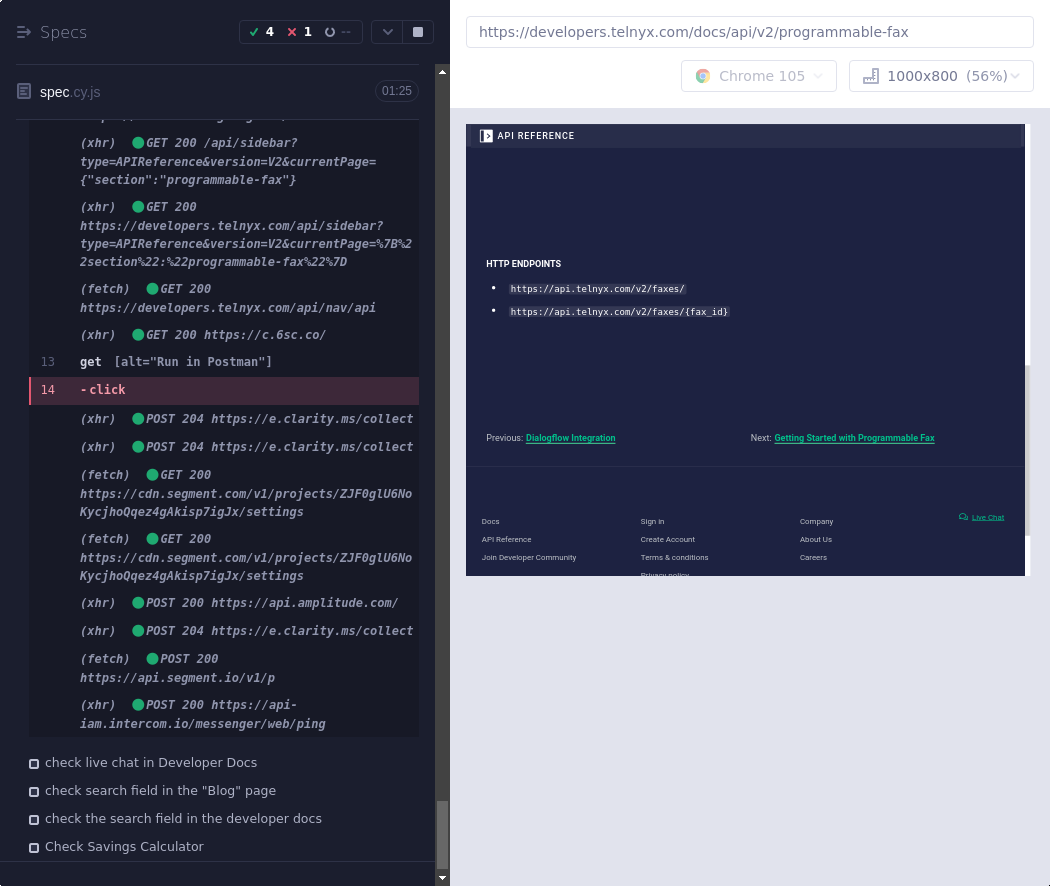
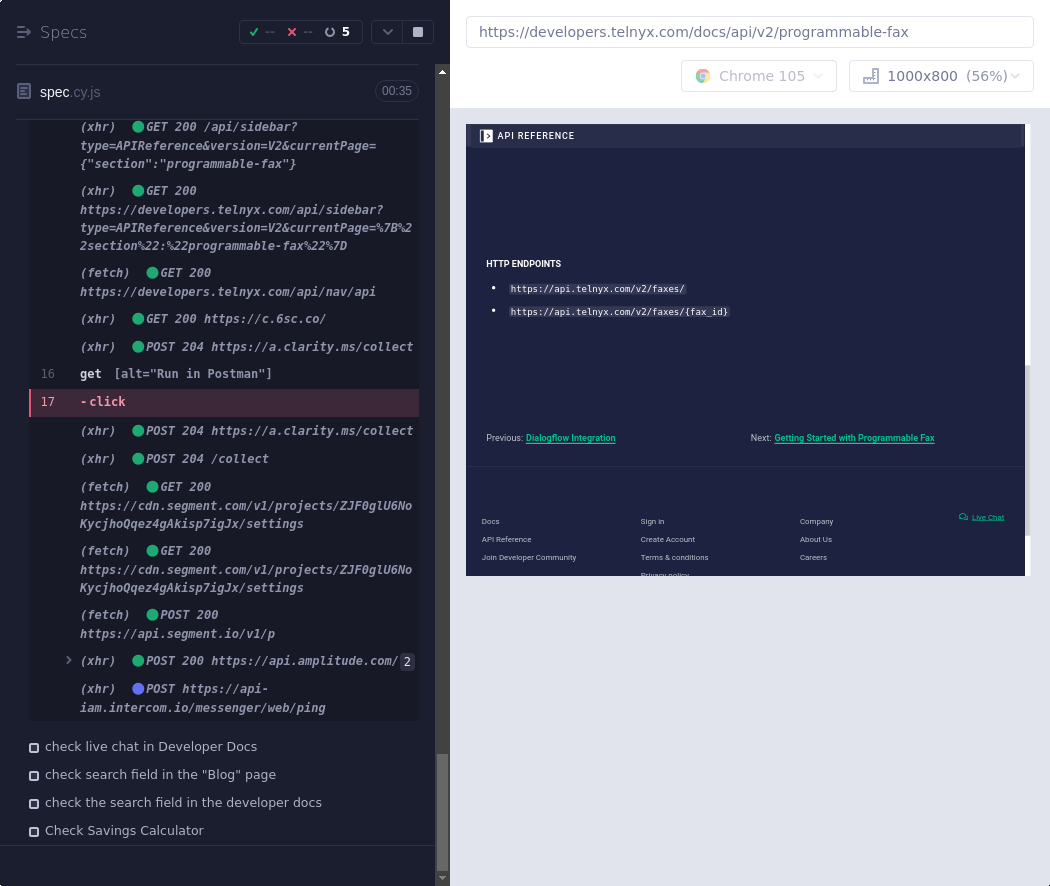
Deploying to gh-pages from @ DenysT07/cypress_autotest@1f916bc33db8359af388c67da36ee941c4093ecd 🚀

Changed region(s): [[0.0, 0.1219, 0.3962, 0.9752], [0.3962, 0.8533, 0.4267, 0.9142]]

diff --git a/index.html b/index.html
@@ -1,2 +1,2 @@
 <!doctype html>
-<html lang="en"><head><meta charSet="utf-8"/><meta http-equiv="X-UA-Compatible" content="IE=edge"/><meta name="viewport" content="width=device-width, initial-scale=1"/><title>Mochawesome Report</title><link rel="stylesheet" href="assets/app.css"/></head><body data-raw="{&quot;stats&quot;:{&quot;suites&quot;:1,&quot;tests&quot;:10,&quot;passes&quot;:8,&quot;pending&quot;:0,&quot;failures&quot;:2,&quot;start&quot;:&quot;2022-09-25T16:30:22.471Z&quot;,&quot;end&quot;:&quot;2022-09-25T16:32:28.709Z&quot;,&quot;duration&quot;:106666,&quot;testsRegistered&quot;:10,&quot;passPercent&quot;:80,&quot;pendingPercent&quot;:0,&quot;other&quot;:0,&quot;hasOther&quot;:false,&quot;skipped&quot;:0,&quot;hasSkipped&quot;:false},&quot;results&quot;:[{&quot;uuid&quot;:&quot;62b38007-95c5-4472-8a57-96c572c19cdd&quot;,&quot;title&quot;:&quot;&quot;,&quot;fullFile&quot;:&quot;cypress/e2e/spec/spec.cy.js&quot;,&quot;file&quot;:&quot;cypress/e2e/spec/spec.cy.js&quot;,&quot;beforeHooks&quot;:[],&quot;afterHooks&quot;:[],&quot;tests&quot;:[],&quot;suites&quot;:[{&quot;uuid&quot;:&quot;39d29764-6764-4790-928c-b9fd155d2620&quot;,&quot;title&quot;:&quot;registration forms tests&quot;,&quot;fullFile&quot;:&quot;cypress/e2e/spec/spec.cy.js&quot;,&quot;file&quot;:&quot;cypress/e2e/spec/spec.cy.js&quot;,&quot;beforeHooks&quot;:[],&quot;afterHooks&quot;:[],&quot;tests&quot;:[{&quot;title&quot;:&quot;Check registration page&quot;,&quot;fullTitle&quot;:&quot;registration forms tests Check registration page&quot;,&quot;timedOut&quot;:null,&quot;duration&quot;:29808,&quot;state&quot;:&quot;failed&quot;,&quot;speed&quot;:null,&quot;pass&quot;:false,&quot;fail&quot;:true,&quot;pending&quot;:false,&quot;context&quot;:&quot;[{\&quot;title\&quot;:\&quot;Failed screenshot\&quot;,\&quot;value\&quot;:\&quot;screenshots/spec.cy.js/registration forms tests -- Check registration page (failed).png\&quot;}]&quot;,&quot;code&quot;:&quot;_mainPage.default.singUpClick();\n_registrationPage.default.fillNameField(randomstring);\n_registrationPage.default.fillEmailField(randomstring + &#x27;@gmail.com&#x27;);\n_registrationPage.default.fillpasswordfield(randomstringForPassword);\n_registrationPage.default.clickBothCheckBoxes();\n_registrationPage.default.clickCreataAccounyButt();\ncy.wait(10000);\n_registrationPage.default.clickCreataAccounyButt(); //to pass the recapcha need to press the button two times, work only in chrome\n\ncy.wait(10000);\n_registrationPage.default.sendEmailMessage.should(\&quot;have.text\&quot;, \&quot;reCAPTCHA validation required\&quot;);&quot;,&quot;err&quot;:{&quot;message&quot;:&quot;AssertionError: Timed out retrying after 4000ms: Expected to find element: `.sc-570b157-1`, but never found it.&quot;,&quot;estack&quot;:&quot;AssertionError: Timed out retrying after 4000ms: Expected to find element: `.sc-570b157-1`, but never found it.\n    at Context.eval (webpack:///./cypress/e2e/spec/spec.cy.js:34:38)&quot;,&quot;diff&quot;:null},&quot;uuid&quot;:&quot;ef8a1c66-fe30-4ca0-8bf6-51a06b396a37&quot;,&quot;parentUUID&quot;:&quot;39d29764-6764-4790-928c-b9fd155d2620&quot;,&quot;isHook&quot;:false,&quot;skipped&quot;:false},{&quot;title&quot;:&quot;Check the \&quot;Talk to an expert\&quot; page&quot;,&quot;fullTitle&quot;:&quot;registration forms tests Check the \&quot;Talk to an expert\&quot; page&quot;,&quot;timedOut&quot;:null,&quot;duration&quot;:5796,&quot;state&quot;:&quot;passed&quot;,&quot;speed&quot;:&quot;medium&quot;,&quot;pass&quot;:true,&quot;fail&quot;:false,&quot;pending&quot;:false,&quot;context&quot;:null,&quot;code&quot;:&quot;_mainPage.default.rightMenueClick();\n_mainPage.default.talkToAnExpertButt();\n_talkToAnExpertPage.default.reasonDroplistSelect(&#x27;Support&#x27;);\n_talkToAnExpertPage.default.firstNameFill(randomstring);\n_talkToAnExpertPage.default.lastNameFill(randomstring);\n_talkToAnExpertPage.default.buisnesEmailFill(randomstring + &#x27;@gmail.com&#x27;);\n_talkToAnExpertPage.default.phoneNumberFill(phoneNumber);\n_talkToAnExpertPage.default.companyWebSiteFill(&#x27;http://www.&#x27; + randomstring + &#x27;.com/&#x27;);\n_talkToAnExpertPage.default.additionalInformationFill(&#x27;It is just a test&#x27;);\n_talkToAnExpertPage.default.countryCodeSelect(&#x27;+380&#x27;);\n_talkToAnExpertPage.default.checkBoxClick();\n_talkToAnExpertPage.default.submitClick();\n_talkToAnExpertPage.default.messageAfterRegist.should(\&quot;have.text\&quot;, \&quot;Thanks for Reaching Out!\&quot;);&quot;,&quot;err&quot;:{},&quot;uuid&quot;:&quot;f870595c-f024-411d-b22d-cfd932deed97&quot;,&quot;parentUUID&quot;:&quot;39d29764-6764-4790-928c-b9fd155d2620&quot;,&quot;isHook&quot;:false,&quot;skipped&quot;:false},{&quot;title&quot;:&quot;check registration for beta testing on the integration page&quot;,&quot;fullTitle&quot;:&quot;registration forms tests check registration for beta testing on the integration page&quot;,&quot;timedOut&quot;:null,&quot;duration&quot;:8782,&quot;state&quot;:&quot;passed&quot;,&quot;speed&quot;:&quot;medium&quot;,&quot;pass&quot;:true,&quot;fail&quot;:false,&quot;pending&quot;:false,&quot;context&quot;:null,&quot;code&quot;:&quot;_mainPage.default.rightMenueClick();\n_mainPage.default.companyButtclick();\n_mainPage.default.integrationButtClick({\n  timeout: 2000\n});\ncy.wait(2000);\ncy.scrollTo(&#x27;bottom&#x27;);\n_integrationPage.default.firstNameFill(randomstring);\n_integrationPage.default.lastNameFill(randomstring);\n_integrationPage.default.buisnesEmailFill(randomstring + &#x27;@gmail.com&#x27;);\n_integrationPage.default.indastryFill(randomstring);\n_integrationPage.default.companyWebSiteFill(&#x27;http://www.&#x27; + randomstring + &#x27;.com/&#x27;);\n_integrationPage.default.useCaseDropListSelect(&#x27;Other&#x27;);\n_integrationPage.default.submitClick();\n_integrationPage.default.messageAfterRegist.should(\&quot;have.text\&quot;, \&quot;Thanks for your interest!\&quot;);&quot;,&quot;err&quot;:{},&quot;uuid&quot;:&quot;751dd17c-9c6f-402a-b12a-78ae5f4d3a8a&quot;,&quot;parentUUID&quot;:&quot;39d29764-6764-4790-928c-b9fd155d2620&quot;,&quot;isHook&quot;:false,&quot;skipped&quot;:false},{&quot;title&quot;:&quot;check registrations for becoming a Telnix Partner on the Partners page &quot;,&quot;fullTitle&quot;:&quot;registration forms tests check registrations for becoming a Telnix Partner on the Partners page &quot;,&quot;timedOut&quot;:null,&quot;duration&quot;:8440,&quot;state&quot;:&quot;passed&quot;,&quot;speed&quot;:&quot;medium&quot;,&quot;pass&quot;:true,&quot;fail&quot;:false,&quot;pending&quot;:false,&quot;context&quot;:null,&quot;code&quot;:&quot;_mainPage.default.rightMenueClick();\n_mainPage.default.companyButtclick();\n_mainPage.default.partnerButtClick();\ncy.wait(2000);\ncy.scrollTo(&#x27;bottom&#x27;);\n_partnerPage.default.firstNameFill(randomstring);\n_partnerPage.default.lastNameFill(randomstring);\n_partnerPage.default.buisnesEmailFill(randomstring + &#x27;@gmail.com&#x27;);\n_partnerPage.default.phoneFill(&#x27;380&#x27; + phoneNumber);\n_partnerPage.default.companyFill(randomstring);\n_partnerPage.default.TellAsFormFill(&#x27;It is just a test&#x27;);\n_partnerPage.default.partnerTypeDropListSelect(&#x27;MSP&#x27;);\n_partnerPage.default.checkBoxLocClick();\n_partnerPage.default.applyNowButtClick();\ncy.url({\n  timeout: 20000\n}).should(&#x27;contains&#x27;, &#x27;https://telnyx.com/company/partnerships?&#x27;); // there is a bug, i decided to check actual URL to pass this test&quot;,&quot;err&quot;:{},&quot;uuid&quot;:&quot;56fd01de-5c39-4ce6-81f5-ab7bc424e3a4&quot;,&quot;parentUUID&quot;:&quot;39d29764-6764-4790-928c-b9fd155d2620&quot;,&quot;isHook&quot;:false,&quot;skipped&quot;:false},{&quot;title&quot;:&quot;check registrations for the Waitlist on the storage page &quot;,&quot;fullTitle&quot;:&quot;registration forms tests check registrations for the Waitlist on the storage page &quot;,&quot;timedOut&quot;:null,&quot;duration&quot;:7738,&quot;state&quot;:&quot;passed&quot;,&quot;speed&quot;:&quot;medium&quot;,&quot;pass&quot;:true,&quot;fail&quot;:false,&quot;pending&quot;:false,&quot;context&quot;:null,&quot;code&quot;:&quot;_mainPage.default.rightMenueClick();\n_mainPage.default.productsButtcClick();\n_mainPage.default.storageButtClock();\ncy.wait(3000);\ncy.scrollTo(&#x27;bottom&#x27;);\n_storagePage.default.firstNameFill(randomstring);\n_storagePage.default.lastNameFill(randomstring);\n_storagePage.default.buisnesEmailFill(randomstring + &#x27;@gmail.com&#x27;);\n_storagePage.default.TellAsFormFill(&#x27;It is just a test&#x27;);\n_storagePage.default.checkBoxClick();\n_storagePage.default.applyNowButtClick();\n_storagePage.default.messageAfterRegist.should(\&quot;have.text\&quot;, \&quot;You&#x27;re on the waitlist!\&quot;);&quot;,&quot;err&quot;:{},&quot;uuid&quot;:&quot;6d17e7cb-eb72-4e35-b25d-277f5ac5f43b&quot;,&quot;parentUUID&quot;:&quot;39d29764-6764-4790-928c-b9fd155d2620&quot;,&quot;isHook&quot;:false,&quot;skipped&quot;:false}],&quot;suites&quot;:[],&quot;passes&quot;:[&quot;f870595c-f024-411d-b22d-cfd932deed97&quot;,&quot;751dd17c-9c6f-402a-b12a-78ae5f4d3a8a&quot;,&quot;56fd01de-5c39-4ce6-81f5-ab7bc424e3a4&quot;,&quot;6d17e7cb-eb72-4e35-b25d-277f5ac5f43b&quot;],&quot;failures&quot;:[&quot;ef8a1c66-fe30-4ca0-8bf6-51a06b396a37&quot;],&quot;pending&quot;:[],&quot;skipped&quot;:[],&quot;duration&quot;:60564,&quot;root&quot;:false,&quot;rootEmpty&quot;:false,&quot;_timeout&quot;:2000},{&quot;uuid&quot;:&quot;573e6160-801b-44a3-8fad-9510ef9ab326&quot;,&quot;title&quot;:&quot;Functional tests&quot;,&quot;fullFile&quot;:&quot;cypress/e2e/spec/spec.cy.js&quot;,&quot;file&quot;:&quot;cypress/e2e/spec/spec.cy.js&quot;,&quot;beforeHooks&quot;:[],&quot;afterHooks&quot;:[],&quot;tests&quot;:[{&quot;title&quot;:&quot;check link to the Postman colection&quot;,&quot;fullTitle&quot;:&quot;Functional tests check link to the Postman colection&quot;,&quot;timedOut&quot;:null,&quot;duration&quot;:13722,&quot;state&quot;:&quot;failed&quot;,&quot;speed&quot;:null,&quot;pass&quot;:false,&quot;fail&quot;:true,&quot;pending&quot;:false,&quot;context&quot;:&quot;[{\&quot;title\&quot;:\&quot;Failed screenshot\&quot;,\&quot;value\&quot;:\&quot;screenshots/spec.cy.js/Functional tests -- check link to the Postman colection (failed).png\&quot;}]&quot;,&quot;code&quot;:&quot;_mainPage.default.rightMenueClick();\n_mainPage.default.productsButtcClick();\n_mainPage.default.seeAllProductsButtClick();\n_faxApiPage.default.faxApiButtClick();\n_faxApiPage.default.exploreTheDocButtClick();\ncy.contains(&#x27;See the Specs&#x27;).click({\n  force: true\n}); // cy.wait(3000)\n// cy.scrollTo(&#x27;top&#x27;)\n// faxApiPage.seeTheSpecButtclick()\n// cy.wait(3000)\n_faxApiPage.default.runInPostmanButtClick();\ncy.url({\n  timeout: 20000\n}).should(&#x27;contains&#x27;, &#x27;postman.com&#x27;);&quot;,&quot;err&quot;:{&quot;message&quot;:&quot;CypressError: Timed out retrying after 4050ms: `cy.click()` failed because this element:\n\n`&lt;img src=\&quot;https://run.pstmn.io/button.svg\&quot; alt=\&quot;Run in Postman\&quot; style=\&quot;max-width: 100%;\&quot;&gt;`\n\nis being covered by another element:\n\n`&lt;label for=\&quot;telnyx-mobile-sidebar\&quot; class=\&quot;sc-249d42c8-0 erLUQr\&quot;&gt;...&lt;/label&gt;`\n\nFix this problem, or use {force: true} to disable error checking.\n\nhttps://on.cypress.io/element-cannot-be-interacted-with&quot;,&quot;estack&quot;:&quot;CypressError: Timed out retrying after 4050ms: `cy.click()` failed because this element:\n\n`&lt;img src=\&quot;https://run.pstmn.io/button.svg\&quot; alt=\&quot;Run in Postman\&quot; style=\&quot;max-width: 100%;\&quot;&gt;`\n\nis being covered by another element:\n\n`&lt;label for=\&quot;telnyx-mobile-sidebar\&quot; class=\&quot;sc-249d42c8-0 erLUQr\&quot;&gt;...&lt;/label&gt;`\n\nFix this problem, or use {force: true} to disable error checking.\n\nhttps://on.cypress.io/element-cannot-be-interacted-with\n    at $Cy.ensureDescendents (https://telnyx.com/__cypress/runner/cypress_runner.js:147512:78)\n    at ensureDescendents (https://telnyx.com/__cypress/runner/cypress_runner.js:132962:8)\n    at ensureDescendentsAndScroll (https://telnyx.com/__cypress/runner/cypress_runner.js:132969:14)\n    at ensureElIsNotCovered (https://telnyx.com/__cypress/runner/cypress_runner.js:133101:5)\n    at runAllChecks (https://telnyx.com/__cypress/runner/cypress_runner.js:133291:52)\n    at retryActionability (https://telnyx.com/__cypress/runner/cypress_runner.js:133315:16)\n    at tryCatcher (https://telnyx.com/__cypress/runner/cypress_runner.js:11318:23)\n    at Promise.attempt.Promise.try (https://telnyx.com/__cypress/runner/cypress_runner.js:8592:29)\n    at whenStable (https://telnyx.com/__cypress/runner/cypress_runner.js:152495:65)\n    at &lt;unknown&gt; (https://telnyx.com/__cypress/runner/cypress_runner.js:151949:14)\n    at tryCatcher (https://telnyx.com/__cypress/runner/cypress_runner.js:11318:23)\n    at Promise._settlePromiseFromHandler (https://telnyx.com/__cypress/runner/cypress_runner.js:9253:31)\n    at Promise._settlePromise (https://telnyx.com/__cypress/runner/cypress_runner.js:9310:18)\n    at Promise._settlePromise0 (https://telnyx.com/__cypress/runner/cypress_runner.js:9355:10)\n    at Promise._settlePromises (https://telnyx.com/__cypress/runner/cypress_runner.js:9435:18)\n    at Promise._fulfill (https://telnyx.com/__cypress/runner/cypress_runner.js:9379:18)\n    at &lt;unknown&gt; (https://telnyx.com/__cypress/runner/cypress_runner.js:10993:46)\nFrom Your Spec Code:\n    at faxApiPage.runInPostmanButtClick (webpack:///./cypress/e2e/pages/faxApiPage.js:17:36)\n    at Context.eval (webpack:///./cypress/e2e/spec/spec.cy.js:126:15)&quot;,&quot;diff&quot;:null},&quot;uuid&quot;:&quot;9cbf79ea-09f0-400a-8681-b7c7e07cf362&quot;,&quot;parentUUID&quot;:&quot;573e6160-801b-44a3-8fad-9510ef9ab326&quot;,&quot;isHook&quot;:false,&quot;skipped&quot;:false},{&quot;title&quot;:&quot;check live chat in Developer Docs&quot;,&quot;fullTitle&quot;:&quot;Functional tests check live chat in Developer Docs&quot;,&quot;timedOut&quot;:null,&quot;duration&quot;:15554,&quot;state&quot;:&quot;passed&quot;,&quot;speed&quot;:&quot;slow&quot;,&quot;pass&quot;:true,&quot;fail&quot;:false,&quot;pending&quot;:false,&quot;context&quot;:null,&quot;code&quot;:&quot;_mainPage.default.rightMenueClick();\n_mainPage.default.resourcesButtclick();\n_mainPage.default.devDocsButtclick();\ncy.scrollTo(&#x27;bottom&#x27;);\ncy.wait(6000);\n_devDocsPage.default.liveChatButtclick();\ncy.wait(5000);\n_devDocsPage.default.serchFieldLiveChatButtClick();\n_devDocsPage.default.serchFieldLiveChatFill(&#x27;sms&#x27;);\ncy.wait(1000);\n_devDocsPage.default.findEntryAndClick(&#x27;Sending Alphanumeric&#x27;);\n_devDocsPage.default.entryTitle.should(\&quot;have.text\&quot;, \&quot;Sending Alphanumeric SMS\&quot;);&quot;,&quot;err&quot;:{},&quot;uuid&quot;:&quot;cc8864e2-3b6d-438c-b88e-d02cb7a888cd&quot;,&quot;parentUUID&quot;:&quot;573e6160-801b-44a3-8fad-9510ef9ab326&quot;,&quot;isHook&quot;:false,&quot;skipped&quot;:false},{&quot;title&quot;:&quot;check search field in the \&quot;Blog\&quot; page&quot;,&quot;fullTitle&quot;:&quot;Functional tests check search field in the \&quot;Blog\&quot; page&quot;,&quot;timedOut&quot;:null,&quot;duration&quot;:8553,&quot;state&quot;:&quot;passed&quot;,&quot;speed&quot;:&quot;medium&quot;,&quot;pass&quot;:true,&quot;fail&quot;:false,&quot;pending&quot;:false,&quot;context&quot;:null,&quot;code&quot;:&quot;_mainPage.default.rightMenueClick();\n_mainPage.default.resourcesButtclick();\n_mainPage.default.blogeButtClick();\n_blogPage.default.serchFieldFill(&#x27;Programmable fax{enter}&#x27;);\ncy.wait(6000);\ncy.contains(&#x27;Programmable fax - switch from Twilio to Telnyx&#x27;).click();\n_blogPage.default.entruTitle.should(&#x27;have.text&#x27;, &#x27;Programmable fax - switch from Twilio to Telnyx &#x27;);&quot;,&quot;err&quot;:{},&quot;uuid&quot;:&quot;dcfb38c9-17cc-4aa7-8ea4-20610cce522a&quot;,&quot;parentUUID&quot;:&quot;573e6160-801b-44a3-8fad-9510ef9ab326&quot;,&quot;isHook&quot;:false,&quot;skipped&quot;:false},{&quot;title&quot;:&quot;check the search field in the developer docs&quot;,&quot;fullTitle&quot;:&quot;Functional tests check the search field in the developer docs&quot;,&quot;timedOut&quot;:null,&quot;duration&quot;:4121,&quot;state&quot;:&quot;passed&quot;,&quot;speed&quot;:&quot;fast&quot;,&quot;pass&quot;:true,&quot;fail&quot;:false,&quot;pending&quot;:false,&quot;context&quot;:null,&quot;code&quot;:&quot;_mainPage.default.rightMenueClick();\n_mainPage.default.resourcesButtclick();\n_mainPage.default.devDocsButtclick();\n_devDocsPage.default.lefMenuClick();\n_devDocsPage.default.serchFieldLeftMenuFill(&#x27;api&#x27;);\ncy.contains(&#x27; Services in Europe&#x27;).click({\n  force: true\n});\n_devDocsPage.default.mainEntryTitle.should(&#x27;have.text&#x27;, &#x27;Voice API Services in Europe&#x27;);&quot;,&quot;err&quot;:{},&quot;uuid&quot;:&quot;b1ab7c4c-02f8-4316-a8d5-080f7ca67ca2&quot;,&quot;parentUUID&quot;:&quot;573e6160-801b-44a3-8fad-9510ef9ab326&quot;,&quot;isHook&quot;:false,&quot;skipped&quot;:false},{&quot;title&quot;:&quot;Check Savings Calculator&quot;,&quot;fullTitle&quot;:&quot;Functional tests Check Savings Calculator&quot;,&quot;timedOut&quot;:null,&quot;duration&quot;:4152,&quot;state&quot;:&quot;passed&quot;,&quot;speed&quot;:&quot;fast&quot;,&quot;pass&quot;:true,&quot;fail&quot;:false,&quot;pending&quot;:false,&quot;context&quot;:null,&quot;code&quot;:&quot;_mainPage.default.rightMenueClick();\n_mainPage.default.resourcesButtclick();\n_mainPage.default.CalculatorButtClick();\ncy.wait(2000);\n_calculatorPage.default.messagingApiButtClick();\n_calculatorPage.default.voiceApiButtClick();\n_calculatorPage.default.continueButtClick();\n_calculatorPage.default.localNumberFieldFill(&#x27;{selectall}321&#x27;);\n_calculatorPage.default.tollFreeNumberFieldClick(&#x27;{selectall}123&#x27;);\n_calculatorPage.default.continueButtClick();\n_calculatorPage.default.totalSavingResult.should(&#x27;have.text&#x27;, &#x27;$12,940/ year&#x27;);&quot;,&quot;err&quot;:{},&quot;uuid&quot;:&quot;5a4b9e5b-aa08-47f4-868b-2d9193443262&quot;,&quot;parentUUID&quot;:&quot;573e6160-801b-44a3-8fad-9510ef9ab326&quot;,&quot;isHook&quot;:false,&quot;skipped&quot;:false}],&quot;suites&quot;:[],&quot;passes&quot;:[&quot;cc8864e2-3b6d-438c-b88e-d02cb7a888cd&quot;,&quot;dcfb38c9-17cc-4aa7-8ea4-20610cce522a&quot;,&quot;b1ab7c4c-02f8-4316-a8d5-080f7ca67ca2&quot;,&quot;5a4b9e5b-aa08-47f4-868b-2d9193443262&quot;],&quot;failures&quot;:[&quot;9cbf79ea-09f0-400a-8681-b7c7e07cf362&quot;],&quot;pending&quot;:[],&quot;skipped&quot;:[],&quot;duration&quot;:46102,&quot;root&quot;:false,&quot;rootEmpty&quot;:false,&quot;_timeout&quot;:2000}],&quot;passes&quot;:[],&quot;failures&quot;:[],&quot;pending&quot;:[],&quot;skipped&quot;:[],&quot;duration&quot;:0,&quot;root&quot;:true,&quot;rootEmpty&quot;:true,&quot;_timeout&quot;:2000}],&quot;meta&quot;:{&quot;mocha&quot;:{&quot;version&quot;:&quot;7.0.1&quot;},&quot;mochawesome&quot;:{&quot;options&quot;:{&quot;quiet&quot;:false,&quot;reportFilename&quot;:&quot;mochawesome&quot;,&quot;saveHtml&quot;:false,&quot;saveJson&quot;:true,&quot;consoleReporter&quot;:&quot;spec&quot;,&quot;useInlineDiffs&quot;:false,&quot;code&quot;:true},&quot;version&quot;:&quot;7.1.3&quot;},&quot;marge&quot;:{&quot;options&quot;:{&quot;overwrite&quot;:false,&quot;html&quot;:false,&quot;json&quot;:true,&quot;reportDir&quot;:&quot;cypress/reports/html/.jsons&quot;},&quot;version&quot;:&quot;6.2.0&quot;}}}" data-config="{&quot;reportFilename&quot;:&quot;index.html&quot;,&quot;reportDir&quot;:&quot;/home/runner/work/cypress_autotest/cypress_autotest/cypress/reports/html&quot;,&quot;reportTitle&quot;:&quot;cypress_autotest&quot;,&quot;reportPageTitle&quot;:&quot;Mochawesome Report&quot;,&quot;inline&quot;:false,&quot;inlineAssets&quot;:false,&quot;cdn&quot;:false,&quot;charts&quot;:false,&quot;enableCharts&quot;:false,&quot;code&quot;:true,&quot;enableCode&quot;:true,&quot;autoOpen&quot;:false,&quot;overwrite&quot;:true,&quot;timestamp&quot;:false,&quot;ts&quot;:false,&quot;showPassed&quot;:true,&quot;showFailed&quot;:true,&quot;showPending&quot;:true,&quot;showSkipped&quot;:false,&quot;showHooks&quot;:&quot;failed&quot;,&quot;saveJson&quot;:false,&quot;saveHtml&quot;:true,&quot;dev&quot;:false,&quot;assetsDir&quot;:&quot;/home/runner/work/cypress_autotest/cypress_autotest/cypress/reports/html/assets&quot;,&quot;htmlFile&quot;:&quot;/home/runner/work/cypress_autotest/cypress_autotest/cypress/reports/html/index.html&quot;}"><div id="report"></div><script src="assets/app.js"></script></body></html>
+<html lang="en"><head><meta charSet="utf-8"/><meta http-equiv="X-UA-Compatible" content="IE=edge"/><meta name="viewport" content="width=device-width, initial-scale=1"/><title>Mochawesome Report</title><link rel="stylesheet" href="assets/app.css"/></head><body data-raw="{&quot;stats&quot;:{&quot;suites&quot;:1,&quot;tests&quot;:10,&quot;passes&quot;:0,&quot;pending&quot;:9,&quot;failures&quot;:1,&quot;start&quot;:&quot;2022-09-25T16:33:34.723Z&quot;,&quot;end&quot;:&quot;2022-09-25T16:34:12.776Z&quot;,&quot;duration&quot;:28781,&quot;testsRegistered&quot;:10,&quot;passPercent&quot;:0,&quot;pendingPercent&quot;:90,&quot;other&quot;:0,&quot;hasOther&quot;:false,&quot;skipped&quot;:0,&quot;hasSkipped&quot;:false},&quot;results&quot;:[{&quot;uuid&quot;:&quot;15ffb571-8be7-4508-acdd-c0c3b3d0fd76&quot;,&quot;title&quot;:&quot;&quot;,&quot;fullFile&quot;:&quot;cypress/e2e/spec/spec.cy.js&quot;,&quot;file&quot;:&quot;cypress/e2e/spec/spec.cy.js&quot;,&quot;beforeHooks&quot;:[],&quot;afterHooks&quot;:[],&quot;tests&quot;:[],&quot;suites&quot;:[{&quot;uuid&quot;:&quot;9d90856e-5828-43ad-a5ec-88b448b982d8&quot;,&quot;title&quot;:&quot;registration forms tests&quot;,&quot;fullFile&quot;:&quot;cypress/e2e/spec/spec.cy.js&quot;,&quot;file&quot;:&quot;cypress/e2e/spec/spec.cy.js&quot;,&quot;beforeHooks&quot;:[],&quot;afterHooks&quot;:[],&quot;tests&quot;:[{&quot;title&quot;:&quot;Check registration page&quot;,&quot;fullTitle&quot;:&quot;registration forms tests Check registration page&quot;,&quot;timedOut&quot;:null,&quot;duration&quot;:0,&quot;state&quot;:&quot;pending&quot;,&quot;speed&quot;:null,&quot;pass&quot;:false,&quot;fail&quot;:false,&quot;pending&quot;:true,&quot;context&quot;:null,&quot;code&quot;:&quot;&quot;,&quot;err&quot;:{},&quot;uuid&quot;:&quot;32035353-113b-4eca-a906-daf57f4c8a6e&quot;,&quot;parentUUID&quot;:&quot;9d90856e-5828-43ad-a5ec-88b448b982d8&quot;,&quot;isHook&quot;:false,&quot;skipped&quot;:false},{&quot;title&quot;:&quot;Check the \&quot;Talk to an expert\&quot; page&quot;,&quot;fullTitle&quot;:&quot;registration forms tests Check the \&quot;Talk to an expert\&quot; page&quot;,&quot;timedOut&quot;:null,&quot;duration&quot;:0,&quot;state&quot;:&quot;pending&quot;,&quot;speed&quot;:null,&quot;pass&quot;:false,&quot;fail&quot;:false,&quot;pending&quot;:true,&quot;context&quot;:null,&quot;code&quot;:&quot;&quot;,&quot;err&quot;:{},&quot;uuid&quot;:&quot;0b565afe-3bb7-46cd-867a-148addeba2ab&quot;,&quot;parentUUID&quot;:&quot;9d90856e-5828-43ad-a5ec-88b448b982d8&quot;,&quot;isHook&quot;:false,&quot;skipped&quot;:false},{&quot;title&quot;:&quot;check registration for beta testing on the integration page&quot;,&quot;fullTitle&quot;:&quot;registration forms tests check registration for beta testing on the integration page&quot;,&quot;timedOut&quot;:null,&quot;duration&quot;:0,&quot;state&quot;:&quot;pending&quot;,&quot;speed&quot;:null,&quot;pass&quot;:false,&quot;fail&quot;:false,&quot;pending&quot;:true,&quot;context&quot;:null,&quot;code&quot;:&quot;&quot;,&quot;err&quot;:{},&quot;uuid&quot;:&quot;cbc03ace-d1e4-4f18-90d8-49af3922a0f1&quot;,&quot;parentUUID&quot;:&quot;9d90856e-5828-43ad-a5ec-88b448b982d8&quot;,&quot;isHook&quot;:false,&quot;skipped&quot;:false},{&quot;title&quot;:&quot;check registrations for becoming a Telnix Partner on the Partners page &quot;,&quot;fullTitle&quot;:&quot;registration forms tests check registrations for becoming a Telnix Partner on the Partners page &quot;,&quot;timedOut&quot;:null,&quot;duration&quot;:0,&quot;state&quot;:&quot;pending&quot;,&quot;speed&quot;:null,&quot;pass&quot;:false,&quot;fail&quot;:false,&quot;pending&quot;:true,&quot;context&quot;:null,&quot;code&quot;:&quot;&quot;,&quot;err&quot;:{},&quot;uuid&quot;:&quot;fc11146f-5eb3-4cf7-91e0-4361e872cd09&quot;,&quot;parentUUID&quot;:&quot;9d90856e-5828-43ad-a5ec-88b448b982d8&quot;,&quot;isHook&quot;:false,&quot;skipped&quot;:false},{&quot;title&quot;:&quot;check registrations for the Waitlist on the storage page &quot;,&quot;fullTitle&quot;:&quot;registration forms tests check registrations for the Waitlist on the storage page &quot;,&quot;timedOut&quot;:null,&quot;duration&quot;:0,&quot;state&quot;:&quot;pending&quot;,&quot;speed&quot;:null,&quot;pass&quot;:false,&quot;fail&quot;:false,&quot;pending&quot;:true,&quot;context&quot;:null,&quot;code&quot;:&quot;&quot;,&quot;err&quot;:{},&quot;uuid&quot;:&quot;59ed9ad7-979e-4814-ae84-52bc69e4f430&quot;,&quot;parentUUID&quot;:&quot;9d90856e-5828-43ad-a5ec-88b448b982d8&quot;,&quot;isHook&quot;:false,&quot;skipped&quot;:false}],&quot;suites&quot;:[],&quot;passes&quot;:[],&quot;failures&quot;:[],&quot;pending&quot;:[&quot;32035353-113b-4eca-a906-daf57f4c8a6e&quot;,&quot;0b565afe-3bb7-46cd-867a-148addeba2ab&quot;,&quot;cbc03ace-d1e4-4f18-90d8-49af3922a0f1&quot;,&quot;fc11146f-5eb3-4cf7-91e0-4361e872cd09&quot;,&quot;59ed9ad7-979e-4814-ae84-52bc69e4f430&quot;],&quot;skipped&quot;:[],&quot;duration&quot;:0,&quot;root&quot;:false,&quot;rootEmpty&quot;:false,&quot;_timeout&quot;:2000},{&quot;uuid&quot;:&quot;d70dac89-48ef-42b2-b2a5-483fa0e70a0f&quot;,&quot;title&quot;:&quot;Functional tests&quot;,&quot;fullFile&quot;:&quot;cypress/e2e/spec/spec.cy.js&quot;,&quot;file&quot;:&quot;cypress/e2e/spec/spec.cy.js&quot;,&quot;beforeHooks&quot;:[],&quot;afterHooks&quot;:[],&quot;tests&quot;:[{&quot;title&quot;:&quot;check link to the Postman colection&quot;,&quot;fullTitle&quot;:&quot;Functional tests check link to the Postman colection&quot;,&quot;timedOut&quot;:null,&quot;duration&quot;:28781,&quot;state&quot;:&quot;failed&quot;,&quot;speed&quot;:null,&quot;pass&quot;:false,&quot;fail&quot;:true,&quot;pending&quot;:false,&quot;context&quot;:&quot;[{\&quot;title\&quot;:\&quot;Failed screenshot\&quot;,\&quot;value\&quot;:\&quot;screenshots/spec.cy.js/Functional tests -- check link to the Postman colection (failed).png\&quot;}]&quot;,&quot;code&quot;:&quot;_mainPage.default.rightMenueClick();\n_mainPage.default.productsButtcClick();\n_mainPage.default.seeAllProductsButtClick();\n_faxApiPage.default.faxApiButtClick();\n_faxApiPage.default.exploreTheDocButtClick();\ncy.wait(3000);\ncy.scrollTo(&#x27;top&#x27;);\ncy.wait(3000);\ncy.contains(&#x27;See the Specs&#x27;).click({\n  force: true\n}); // cy.wait(3000)\n// cy.scrollTo(&#x27;top&#x27;)\n// faxApiPage.seeTheSpecButtclick()\n// cy.wait(3000)\n_faxApiPage.default.runInPostmanButtClick();\ncy.url({\n  timeout: 20000\n}).should(&#x27;contains&#x27;, &#x27;postman.com&#x27;);&quot;,&quot;err&quot;:{&quot;message&quot;:&quot;CypressError: Timed out retrying after 4050ms: `cy.click()` failed because this element:\n\n`&lt;img src=\&quot;https://run.pstmn.io/button.svg\&quot; alt=\&quot;Run in Postman\&quot; style=\&quot;max-width: 100%;\&quot;&gt;`\n\nis being covered by another element:\n\n`&lt;label for=\&quot;telnyx-mobile-sidebar\&quot; class=\&quot;sc-249d42c8-0 erLUQr\&quot;&gt;...&lt;/label&gt;`\n\nFix this problem, or use {force: true} to disable error checking.\n\nhttps://on.cypress.io/element-cannot-be-interacted-with&quot;,&quot;estack&quot;:&quot;CypressError: Timed out retrying after 4050ms: `cy.click()` failed because this element:\n\n`&lt;img src=\&quot;https://run.pstmn.io/button.svg\&quot; alt=\&quot;Run in Postman\&quot; style=\&quot;max-width: 100%;\&quot;&gt;`\n\nis being covered by another element:\n\n`&lt;label for=\&quot;telnyx-mobile-sidebar\&quot; class=\&quot;sc-249d42c8-0 erLUQr\&quot;&gt;...&lt;/label&gt;`\n\nFix this problem, or use {force: true} to disable error checking.\n\nhttps://on.cypress.io/element-cannot-be-interacted-with\n    at $Cy.ensureDescendents (https://telnyx.com/__cypress/runner/cypress_runner.js:147512:78)\n    at ensureDescendents (https://telnyx.com/__cypress/runner/cypress_runner.js:132962:8)\n    at ensureDescendentsAndScroll (https://telnyx.com/__cypress/runner/cypress_runner.js:132969:14)\n    at ensureElIsNotCovered (https://telnyx.com/__cypress/runner/cypress_runner.js:133101:5)\n    at runAllChecks (https://telnyx.com/__cypress/runner/cypress_runner.js:133291:52)\n    at retryActionability (https://telnyx.com/__cypress/runner/cypress_runner.js:133315:16)\n    at tryCatcher (https://telnyx.com/__cypress/runner/cypress_runner.js:11318:23)\n    at Promise.attempt.Promise.try (https://telnyx.com/__cypress/runner/cypress_runner.js:8592:29)\n    at whenStable (https://telnyx.com/__cypress/runner/cypress_runner.js:152495:65)\n    at &lt;unknown&gt; (https://telnyx.com/__cypress/runner/cypress_runner.js:151949:14)\n    at tryCatcher (https://telnyx.com/__cypress/runner/cypress_runner.js:11318:23)\n    at Promise._settlePromiseFromHandler (https://telnyx.com/__cypress/runner/cypress_runner.js:9253:31)\n    at Promise._settlePromise (https://telnyx.com/__cypress/runner/cypress_runner.js:9310:18)\n    at Promise._settlePromise0 (https://telnyx.com/__cypress/runner/cypress_runner.js:9355:10)\n    at Promise._settlePromises (https://telnyx.com/__cypress/runner/cypress_runner.js:9435:18)\n    at Promise._fulfill (https://telnyx.com/__cypress/runner/cypress_runner.js:9379:18)\n    at &lt;unknown&gt; (https://telnyx.com/__cypress/runner/cypress_runner.js:10993:46)\nFrom Your Spec Code:\n    at faxApiPage.runInPostmanButtClick (webpack:///./cypress/e2e/pages/faxApiPage.js:17:36)\n    at Context.eval (webpack:///./cypress/e2e/spec/spec.cy.js:129:15)&quot;,&quot;diff&quot;:null},&quot;uuid&quot;:&quot;12259f4f-ec1a-4098-a327-e31eb86dd0fb&quot;,&quot;parentUUID&quot;:&quot;d70dac89-48ef-42b2-b2a5-483fa0e70a0f&quot;,&quot;isHook&quot;:false,&quot;skipped&quot;:false},{&quot;title&quot;:&quot;check live chat in Developer Docs&quot;,&quot;fullTitle&quot;:&quot;Functional tests check live chat in Developer Docs&quot;,&quot;timedOut&quot;:null,&quot;duration&quot;:0,&quot;state&quot;:&quot;pending&quot;,&quot;speed&quot;:null,&quot;pass&quot;:false,&quot;fail&quot;:false,&quot;pending&quot;:true,&quot;context&quot;:null,&quot;code&quot;:&quot;&quot;,&quot;err&quot;:{},&quot;uuid&quot;:&quot;7e42ace8-3ac7-4c55-9dbb-26dde8212062&quot;,&quot;parentUUID&quot;:&quot;d70dac89-48ef-42b2-b2a5-483fa0e70a0f&quot;,&quot;isHook&quot;:false,&quot;skipped&quot;:false},{&quot;title&quot;:&quot;check search field in the \&quot;Blog\&quot; page&quot;,&quot;fullTitle&quot;:&quot;Functional tests check search field in the \&quot;Blog\&quot; page&quot;,&quot;timedOut&quot;:null,&quot;duration&quot;:0,&quot;state&quot;:&quot;pending&quot;,&quot;speed&quot;:null,&quot;pass&quot;:false,&quot;fail&quot;:false,&quot;pending&quot;:true,&quot;context&quot;:null,&quot;code&quot;:&quot;&quot;,&quot;err&quot;:{},&quot;uuid&quot;:&quot;1027aca5-ea10-413e-b2e5-b94292d613c5&quot;,&quot;parentUUID&quot;:&quot;d70dac89-48ef-42b2-b2a5-483fa0e70a0f&quot;,&quot;isHook&quot;:false,&quot;skipped&quot;:false},{&quot;title&quot;:&quot;check the search field in the developer docs&quot;,&quot;fullTitle&quot;:&quot;Functional tests check the search field in the developer docs&quot;,&quot;timedOut&quot;:null,&quot;duration&quot;:0,&quot;state&quot;:&quot;pending&quot;,&quot;speed&quot;:null,&quot;pass&quot;:false,&quot;fail&quot;:false,&quot;pending&quot;:true,&quot;context&quot;:null,&quot;code&quot;:&quot;&quot;,&quot;err&quot;:{},&quot;uuid&quot;:&quot;f3e9b812-3012-4a90-91f4-d9e33a601888&quot;,&quot;parentUUID&quot;:&quot;d70dac89-48ef-42b2-b2a5-483fa0e70a0f&quot;,&quot;isHook&quot;:false,&quot;skipped&quot;:false},{&quot;title&quot;:&quot;Check Savings Calculator&quot;,&quot;fullTitle&quot;:&quot;Functional tests Check Savings Calculator&quot;,&quot;timedOut&quot;:null,&quot;duration&quot;:0,&quot;state&quot;:&quot;pending&quot;,&quot;speed&quot;:null,&quot;pass&quot;:false,&quot;fail&quot;:false,&quot;pending&quot;:true,&quot;context&quot;:null,&quot;code&quot;:&quot;&quot;,&quot;err&quot;:{},&quot;uuid&quot;:&quot;66b6a6f5-a7e0-40da-b12a-cc8245141464&quot;,&quot;parentUUID&quot;:&quot;d70dac89-48ef-42b2-b2a5-483fa0e70a0f&quot;,&quot;isHook&quot;:false,&quot;skipped&quot;:false}],&quot;suites&quot;:[],&quot;passes&quot;:[],&quot;failures&quot;:[&quot;12259f4f-ec1a-4098-a327-e31eb86dd0fb&quot;],&quot;pending&quot;:[&quot;7e42ace8-3ac7-4c55-9dbb-26dde8212062&quot;,&quot;1027aca5-ea10-413e-b2e5-b94292d613c5&quot;,&quot;f3e9b812-3012-4a90-91f4-d9e33a601888&quot;,&quot;66b6a6f5-a7e0-40da-b12a-cc8245141464&quot;],&quot;skipped&quot;:[],&quot;duration&quot;:28781,&quot;root&quot;:false,&quot;rootEmpty&quot;:false,&quot;_timeout&quot;:2000}],&quot;passes&quot;:[],&quot;failures&quot;:[],&quot;pending&quot;:[],&quot;skipped&quot;:[],&quot;duration&quot;:0,&quot;root&quot;:true,&quot;rootEmpty&quot;:true,&quot;_timeout&quot;:2000}],&quot;meta&quot;:{&quot;mocha&quot;:{&quot;version&quot;:&quot;7.0.1&quot;},&quot;mochawesome&quot;:{&quot;options&quot;:{&quot;quiet&quot;:false,&quot;reportFilename&quot;:&quot;mochawesome&quot;,&quot;saveHtml&quot;:false,&quot;saveJson&quot;:true,&quot;consoleReporter&quot;:&quot;spec&quot;,&quot;useInlineDiffs&quot;:false,&quot;code&quot;:true},&quot;version&quot;:&quot;7.1.3&quot;},&quot;marge&quot;:{&quot;options&quot;:{&quot;overwrite&quot;:false,&quot;html&quot;:false,&quot;json&quot;:true,&quot;reportDir&quot;:&quot;cypress/reports/html/.jsons&quot;},&quot;version&quot;:&quot;6.2.0&quot;}}}" data-config="{&quot;reportFilename&quot;:&quot;index.html&quot;,&quot;reportDir&quot;:&quot;/home/runner/work/cypress_autotest/cypress_autotest/cypress/reports/html&quot;,&quot;reportTitle&quot;:&quot;cypress_autotest&quot;,&quot;reportPageTitle&quot;:&quot;Mochawesome Report&quot;,&quot;inline&quot;:false,&quot;inlineAssets&quot;:false,&quot;cdn&quot;:false,&quot;charts&quot;:false,&quot;enableCharts&quot;:false,&quot;code&quot;:true,&quot;enableCode&quot;:true,&quot;autoOpen&quot;:false,&quot;overwrite&quot;:true,&quot;timestamp&quot;:false,&quot;ts&quot;:false,&quot;showPassed&quot;:true,&quot;showFailed&quot;:true,&quot;showPending&quot;:true,&quot;showSkipped&quot;:false,&quot;showHooks&quot;:&quot;failed&quot;,&quot;saveJson&quot;:false,&quot;saveHtml&quot;:true,&quot;dev&quot;:false,&quot;assetsDir&quot;:&quot;/home/runner/work/cypress_autotest/cypress_autotest/cypress/reports/html/assets&quot;,&quot;htmlFile&quot;:&quot;/home/runner/work/cypress_autotest/cypress_autotest/cypress/reports/html/index.html&quot;}"><div id="report"></div><script src="assets/app.js"></script></body></html>
